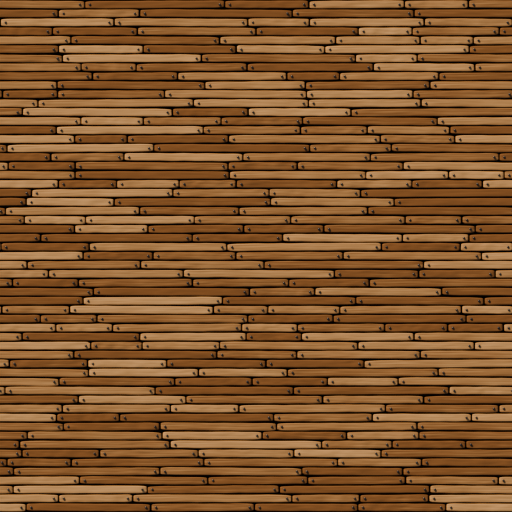
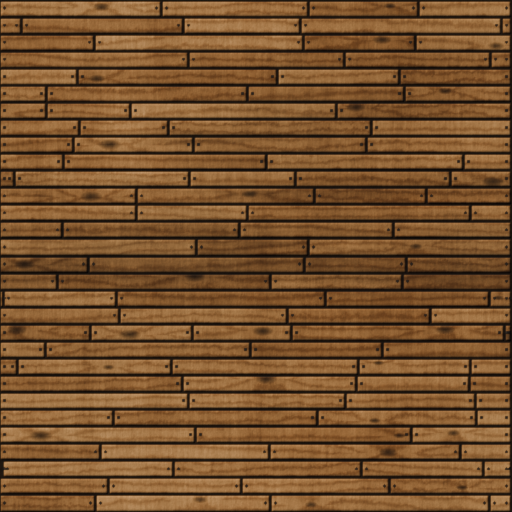
Blender wood: heightfield planks with real grain, knots, bevels, gaps, weathering
Claude-Session: https://claude.ai/code/session_01JvXrYdG1XCH4i3GESsQzbh

diff --git a/dev/blender/make_textures.py b/dev/blender/make_textures.py
@@ -323,24 +323,61 @@ def block_mesh(sx, sy, sz, rng, jitter):
 
 
 def mat_wood(name, dark, light):
-    """дерево: вытянутые вдоль доски волокна, сучки, тон доски из свойства tone"""
+    """дерево: годичные слои (волна с искажением) вдоль доски, у каждой доски свой рисунок и тон,
+    тёмные поры, сучки, потёртые светлые кромки, грязь в углублениях"""
     dark, light = lin(dark), lin(light)
-    m, nt, b = principled(name, 0.7, 0.25)
+    m, nt, b = principled(name, 0.68, 0.28)
     N = nt.nodes; L = nt.links
-    tc = N.new('ShaderNodeTexCoord'); mp = N.new('ShaderNodeMapping')
-    mp.inputs['Scale'].default_value = (0.6, 22, 1)
-    L.new(tc.outputs['Object'], mp.inputs['Vector'])
-    nz = N.new('ShaderNodeTexNoise'); nz.inputs['Scale'].default_value = 3; nz.inputs['Detail'].default_value = 12
-    L.new(mp.outputs['Vector'], nz.inputs['Vector'])
+    tc = N.new('ShaderNodeTexCoord'); oi = N.new('ShaderNodeObjectInfo')
+    rnd = N.new('ShaderNodeVectorMath'); rnd.operation = 'SCALE'; rnd.inputs['Scale'].default_value = 37.0
+    L.new(oi.outputs['Random'], rnd.inputs[0])
+    add = N.new('ShaderNodeVectorMath'); add.operation = 'ADD'
+    L.new(tc.outputs['Object'], add.inputs[0]); L.new(rnd.outputs[0], add.inputs[1])
+    mp = N.new('ShaderNodeMapping'); mp.inputs['Scale'].default_value = (0.25, 30, 1)
+    L.new(add.outputs[0], mp.inputs['Vector'])
+    wv = N.new('ShaderNodeTexWave'); wv.wave_type = 'BANDS'; wv.bands_direction = 'Y'
+    wv.inputs['Scale'].default_value = 2.2; wv.inputs['Distortion'].default_value = 3; wv.inputs['Detail'].default_value = 6
+    wv.inputs['Detail Scale'].default_value = 1.2
+    L.new(mp.outputs['Vector'], wv.inputs['Vector'])
+    mp2 = N.new('ShaderNodeMapping'); mp2.inputs['Scale'].default_value = (0.5, 40, 1)
+    L.new(add.outputs[0], mp2.inputs['Vector'])
+    pore = N.new('ShaderNodeTexNoise'); pore.inputs['Scale'].default_value = 25; pore.inputs['Detail'].default_value = 10
+    L.new(mp2.outputs['Vector'], pore.inputs['Vector'])
+    big = N.new('ShaderNodeTexNoise'); big.inputs['Scale'].default_value = 1.5; big.inputs['Detail'].default_value = 4
+    L.new(add.outputs[0], big.inputs['Vector'])
     tone = N.new('ShaderNodeAttribute'); tone.attribute_type = 'OBJECT'; tone.attribute_name = 'tone'
-    mix = N.new('ShaderNodeMath'); mix.operation = 'MULTIPLY_ADD'
-    L.new(nz.outputs['Fac'], mix.inputs[0]); mix.inputs[1].default_value = 0.9; L.new(tone.outputs['Fac'], mix.inputs[2])
+    # фактор: слои + крупные пятна + тон доски
+    f1 = N.new('ShaderNodeMath'); f1.operation = 'MULTIPLY_ADD'; f1.inputs[1].default_value = 0.9
+    L.new(wv.outputs['Fac'], f1.inputs[0]); L.new(big.outputs['Fac'], f1.inputs[2]); f1.inputs[2].default_value = 0
+    bg2 = N.new('ShaderNodeMath'); bg2.operation = 'MULTIPLY'; bg2.inputs[1].default_value = 0.4; L.new(big.outputs['Fac'], bg2.inputs[0]); L.new(bg2.outputs[0], f1.inputs[2])
+    f2 = N.new('ShaderNodeMath'); f2.operation = 'ADD'
+    L.new(f1.outputs[0], f2.inputs[0]); L.new(tone.outputs['Fac'], f2.inputs[1])
     ramp = N.new('ShaderNodeValToRGB')
-    ramp.color_ramp.elements[0].position = 0.25; ramp.color_ramp.elements[0].color = (*dark, 1)
-    ramp.color_ramp.elements[1].position = 0.85; ramp.color_ramp.elements[1].color = (*light, 1)
-    L.new(mix.outputs[0], ramp.inputs['Fac']); L.new(ramp.outputs['Color'], b.inputs['Base Color'])
-    bump = N.new('ShaderNodeBump'); bump.inputs['Strength'].default_value = 0.5
-    L.new(nz.outputs['Fac'], bump.inputs['Height']); L.new(bump.outputs['Normal'], b.inputs['Normal'])
+    ramp.color_ramp.elements[0].position = 0.35; ramp.color_ramp.elements[0].color = (*dark, 1)
+    ramp.color_ramp.elements[1].position = 1.1; ramp.color_ramp.elements[1].color = (*light, 1)
+    L.new(f2.outputs[0], ramp.inputs['Fac'])
+    # поры: тёмные штрихи
+    pr = N.new('ShaderNodeMapRange'); pr.inputs['From Min'].default_value = 0.3; pr.inputs['From Max'].default_value = 0.6
+    pr.inputs['To Min'].default_value = 0.72; pr.inputs['To Max'].default_value = 1.05
+    L.new(pore.outputs['Fac'], pr.inputs['Value'])
+    geo = N.new('ShaderNodeNewGeometry')
+    pt = N.new('ShaderNodeMapRange'); pt.inputs['From Min'].default_value = 0.45; pt.inputs['From Max'].default_value = 0.58
+    pt.inputs['To Min'].default_value = 0.6; pt.inputs['To Max'].default_value = 1.3
+    L.new(geo.outputs['Pointiness'], pt.inputs['Value'])
+    mm = N.new('ShaderNodeMath'); mm.operation = 'MULTIPLY'
+    L.new(pr.outputs['Result'], mm.inputs[0]); L.new(pt.outputs['Result'], mm.inputs[1])
+    mc = N.new('ShaderNodeMix'); mc.data_type = 'RGBA'; mc.blend_type = 'MULTIPLY'; sock(mc.inputs, 'Factor_Float').default_value = 1.0
+    L.new(ramp.outputs['Color'], sock(mc.inputs, 'A_Color'))
+    cv = N.new('ShaderNodeCombineXYZ'); L.new(mm.outputs[0], cv.inputs[0]); L.new(mm.outputs[0], cv.inputs[1]); L.new(mm.outputs[0], cv.inputs[2])
+    L.new(cv.outputs[0], sock(mc.inputs, 'B_Color'))
+    L.new(sock(mc.outputs, 'Result_Color'), b.inputs['Base Color'])
+    # рельеф: слои и поры
+    hb = N.new('ShaderNodeMath'); hb.operation = 'MULTIPLY_ADD'; hb.inputs[1].default_value = 0.5
+    L.new(pore.outputs['Fac'], hb.inputs[0]); L.new(wv.outputs['Fac'], hb.inputs[2])
+    bump = N.new('ShaderNodeBump'); bump.inputs['Strength'].default_value = 0.35; bump.inputs['Distance'].default_value = 0.003
+    L.new(hb.outputs[0], bump.inputs['Height']); L.new(bump.outputs['Normal'], b.inputs['Normal'])
+    rr = N.new('ShaderNodeMapRange'); rr.inputs['To Min'].default_value = 0.8; rr.inputs['To Max'].default_value = 0.55
+    L.new(pore.outputs['Fac'], rr.inputs['Value']); L.new(rr.outputs['Result'], b.inputs['Roughness'])
     return m
 
 
@@ -662,6 +699,77 @@ def rock_face(name, seed, pal, layer=(14, 60), amp=0.10, joints=1.0, blocks=60, 
     render(sc, name)
 
 
+def wood_planks(name, seed, ph, pw, dark, light, n=512, nails=True, weather=0.3, gap=1.6):
+    """обшивка из досок (карта высот): ряды досок высотой ph px разной длины (pw — средняя), в каждой — свои
+    годичные слои (синус по искривлённой координате), сучки с завитками слоёв, тёмные поры, скруглённые кромки,
+    щели, гвозди, выгоревшие светлые и грязные тёмные места"""
+    sc = reset(); rng = np.random.default_rng(seed)
+    yy, xx = np.mgrid[0:n, 0:n].astype(np.float64)
+    rows = max(1, int(round(n / ph))); rh = n / rows
+    row = np.floor(yy / rh).astype(int); fy = yy - row * rh
+    H = np.zeros((n, n)); C = np.zeros((n, n, 3)); pid = np.zeros((n, n), int)
+    D = np.array(dark); Lc = np.array(light)
+    fn = fft_noise(n, 1.2, seed + 1); fine = aniso_noise(n, 0.9, seed + 2, 0.05, 1.0)
+    pores = aniso_noise(n, 0.3, seed + 3, 0.04, 1.0)
+    for r in range(rows):
+        m = row == r
+        off = rng.uniform(0, pw); x0 = -off; k = 0
+        while x0 < n:
+            L_ = pw * rng.uniform(0.6, 1.6); x1 = min(n, x0 + L_)
+            seg = m & (xx >= x0) & (xx < x1)
+            if not seg.any(): x0 = x1; continue
+            pidv = r * 1000 + k; k += 1
+            pr = np.random.default_rng(seed * 7919 + pidv)
+            tone = pr.uniform(-0.18, 0.18)
+            # годичные слои: координата поперёк доски, искривлённая шумом и сучками
+            gy = fy + (fn - 0.5) * pr.uniform(6, 14) + np.sin(xx * pr.uniform(0.01, 0.03) + pr.uniform(0, 6)) * pr.uniform(1, 4)
+            knots = []
+            for _ in range(int(pr.random() < 0.3)):
+                knots.append((pr.uniform(x0 + 8, max(x0 + 9, x1 - 8)), pr.uniform(0.25, 0.75) * rh, pr.uniform(2.5, 5.5)))
+            kd = np.full((n, n), 1e9)
+            for kx, ky, kr in knots:
+                dx = (xx - kx) / 2.2; dy = fy - ky; d = np.sqrt(dx * dx + dy * dy)
+                gy = gy + np.exp(-(d / (kr * 3)) ** 2) * (kr * 3) * np.sign(dy + 1e-3) * 0.9
+                kd = np.minimum(kd, d / kr)
+            ring = 0.5 + 0.5 * np.sin(gy * pr.uniform(0.45, 0.8) + pr.uniform(0, 6))
+            ring = ring ** 3
+            t = np.clip(0.55 + tone + (fine - 0.5) * 0.5 - ring * 0.35 + (fn - 0.5) * 0.3, 0, 1)
+            col = D * (1 - t)[..., None] + Lc * t[..., None]
+            col *= (0.82 + 0.3 * pores)[..., None]
+            kn = np.clip(1.0 - kd, 0, 1) ** 0.7                            # сучок: тёмное ядро
+            col *= (1 - 0.55 * kn)[..., None]
+            # кромки доски: скругление и тёмная грязь в стыках
+            ex = np.minimum(xx - x0, x1 - xx); ey = np.minimum(fy, rh - fy)
+            e = np.minimum(ex, ey)
+            bev = np.clip(e / 3.0, 0, 1)
+            h = 0.006 * np.sqrt(bev) + pr.uniform(-0.002, 0.002) + ring * 0.0006 - kn * 0.001
+            H = np.where(seg, h, H); C = np.where(seg[..., None], col, C); pid = np.where(seg, pidv, pid)
+            x0 = x1
+    # щели между досками
+    ex = np.abs(np.diff(pid, axis=1, append=pid[:, :1])) > 0
+    ey = np.abs(np.diff(pid, axis=0, append=pid[:1, :])) > 0
+    gapm = blur_p((ex | ey).astype(float), gap * 0.6) > 0.18
+    H = np.where(gapm, -0.004, H); C = np.where(gapm[..., None], C * 0.25, C)
+    # выветривание: светлые выгоревшие пятна, тёмные потёки
+    w = fft_noise(n, 1.5, seed + 5); st = aniso_noise(n, 1.3, seed + 6, 1.0, 0.1)
+    C = C * (1 + weather * 0.35 * (w - 0.5))[..., None]
+    C = C * (1 - weather * 0.4 * np.clip((st - 0.55) * 3, 0, 1))[..., None]
+    if nails:                                                    # гвозди у торцов досок
+        yb = (np.arange(rows) + 0.5) * rh
+        for x in np.where(ex.any(axis=0))[0][::1]:
+            pass
+        endx = [(r, np.where(ex[int(yb[r]) % n])[0]) for r in range(rows)]
+        for r, xs_ in endx:
+            for x in xs_:
+                for sx in (-5, 5):
+                    cx = (x + sx) % n; cy = yb[r]
+                    d = np.sqrt(((xx - cx + n / 2) % n - n / 2) ** 2 + ((yy - cy + n / 2) % n - n / 2) ** 2)
+                    nm = d < 1.6
+                    H = np.where(nm, H + 0.001, H); C = np.where(nm[..., None], np.array((0.22, 0.2, 0.18)) * (1.2 - d / 2)[..., None], C)
+    field_plane('wood', H, np.clip(C, 0, 1), rough=0.75, bump=0.15)
+    render(sc, name)
+
+
 # ---------------------------------------------------------------- деревья (спрайты с прозрачным фоном)
 def _cone(bm, p0, p1, r0, r1, seg=10):
     """сужающийся цилиндр ветки от p0 до p1"""
@@ -815,8 +923,8 @@ LIB = {
     'grass_alien': lambda: grass_strip('grass_alien', 134, [(0.05, 0.28, 0.30), (0.08, 0.40, 0.40), (0.12, 0.52, 0.50), (0.30, 0.90, 0.85)],
                                        [(1.0, 0.45, 0.95), (0.55, 0.95, 1.0)], glow=((0.35, 1.0, 0.90), 2.0)),
     # ---- пиратская бухта: доски корабля, тропическая земля и трава
-    'wood_ship': lambda: masonry('wood_ship', 141, 120, 10, (0.30, 0.17, 0.09), (0.58, 0.38, 0.22), (0.10, 0.05, 0.03), wrange=(0.5, 1.6), mat='wood', nails=True, jitter=0.4, depth=0.03, gap_px=1.6),
-    'wood_light': lambda: masonry('wood_light', 142, 100, 9, (0.52, 0.36, 0.22), (0.80, 0.62, 0.42), (0.18, 0.10, 0.06), wrange=(0.5, 1.6), mat='wood', nails=True, jitter=0.4, depth=0.03, gap_px=1.4),
+    'wood_ship': lambda: wood_planks('wood_ship', 141, 20, 170, (0.24, 0.13, 0.07), (0.56, 0.36, 0.20)),
+    'wood_light': lambda: wood_planks('wood_light', 142, 17, 140, (0.46, 0.32, 0.20), (0.80, 0.63, 0.43), weather=0.5),
     'dirt_tropical': lambda: dirt_stones('dirt_tropical', 143, (0.56, 0.40, 0.26), (0.40, 0.27, 0.16), (0.40, 0.36, 0.30), (0.74, 0.70, 0.62), density=1.4),
     'grass_tropical': lambda: grass_strip('grass_tropical', 144, [(0.28, 0.52, 0.12), (0.40, 0.66, 0.16), (0.54, 0.78, 0.22), (0.66, 0.86, 0.30)],
                                           [(0.95, 0.30, 0.45), (1.0, 0.82, 0.25), (1.0, 0.55, 0.20), (1.0, 1.0, 1.0)]),
